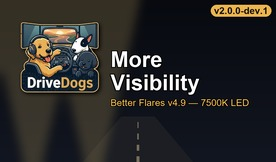
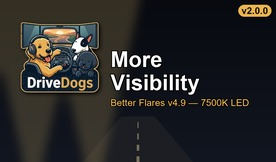
release 2.0.0 for better flares 4.9 after the dev.1 playtest: clean log, wider beam, longer high beam and lamp glow ok

Changed region(s): [[0.7536, 0.0, 0.9855, 0.1235]]

diff --git a/docs/tuning.md b/docs/tuning.md
@@ -15,7 +15,7 @@ v4.9's own values already exceed 1.0.0 in brightness, low-beam and roof reach an
 relative levers are dropped (user, 2026-10-28). Kept from 1.0.0: the width and high-beam reach (as absolutes) and
 the T5 lamp glow.
 
-| Round | Lever group | Fields | Stock v4.9.1 7500K | Lever | 2.0.0-dev.1 | Check in-game |
+| Round | Lever group | Fields | Stock v4.9.1 7500K | Lever | Released 2.0.0 | Check in-game |
 |---|---|---|---|---|---|---|
 | T1 | Intensity | `*_color*` | low `(4.15, 4.675, 6.2)` | identity | stock | |
 | T2 | Reach | `*_range` | low 140 / hi 240 / front 260 / roof, front_roof 400 | `range_set` 280 on hi, front | 140 / 280 / 280 / 400 | High beam and aux lamps carry farther |
@@ -31,7 +31,7 @@ Aim is one value for every truck in v4.9 (`low_beam_left_rot (-0.55, 0, 0)`), no
 
 | Build | Changed | Verdict |
 |---|---|---|
-| 2.0.0-dev.1 | Rebuilt on v4.9.1: angle 103, hi/front range 280, T5 glow; everything else stock | pending playtest |
+| 2.0.0-dev.1 | Rebuilt on v4.9.1: angle 103, hi/front range 280, T5 glow; everything else stock | Clean log, user OK → released as 2.0.0 |
 
 ## Better Flares v4.8 (1.x, history)
 

diff --git a/README.md b/README.md
@@ -4,7 +4,7 @@ An ETS2 add-on for **Better Flares v4.9 - Headlights.2 7500K LED** (by Avelium).
 wider and the high beam reaches farther for more comfortable night driving, and the headlamp glow stays
 readable in bad daytime conditions, while keeping Better Flares' realistic mood.
 
-**Status: `2.0.0-dev.1`.** Better Flares v4.9 only; 7500K LED only; any Headlights.1 pattern. `1.0.0` was for
+**Status: `2.0.0`.** Better Flares v4.9 only; 7500K LED only; any Headlights.1 pattern. `1.0.0` was for
 Better Flares v4.8 and breaks on v4.9 (removed beam masks).
 
 ## Load order
